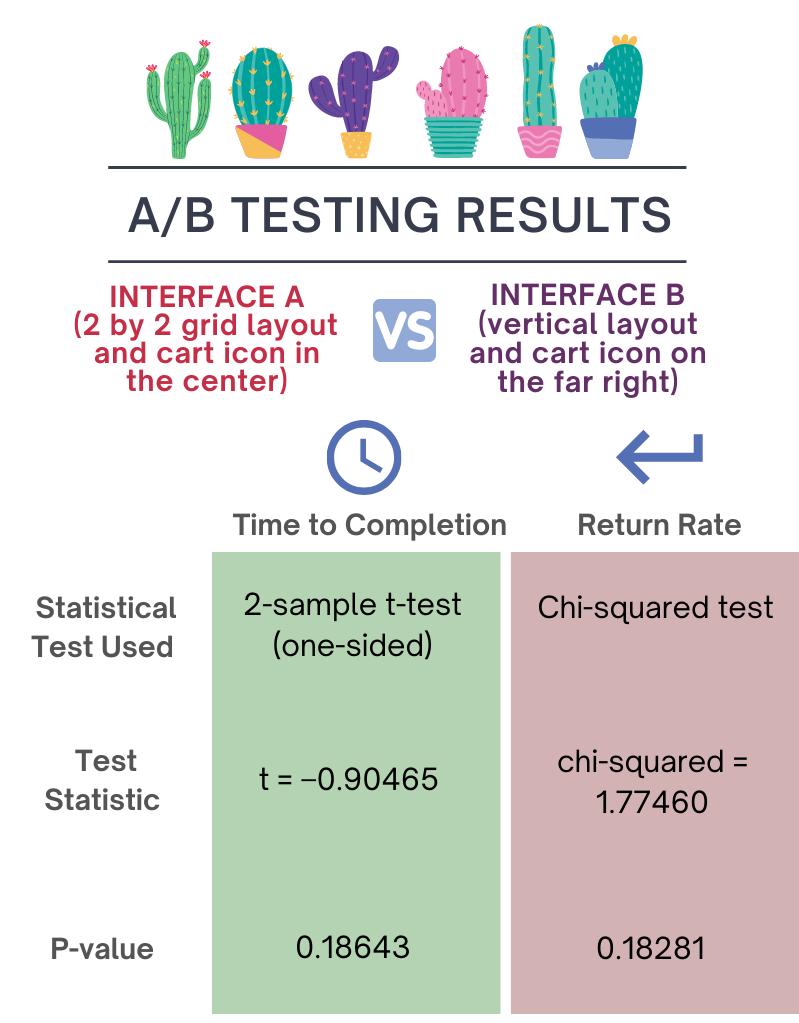
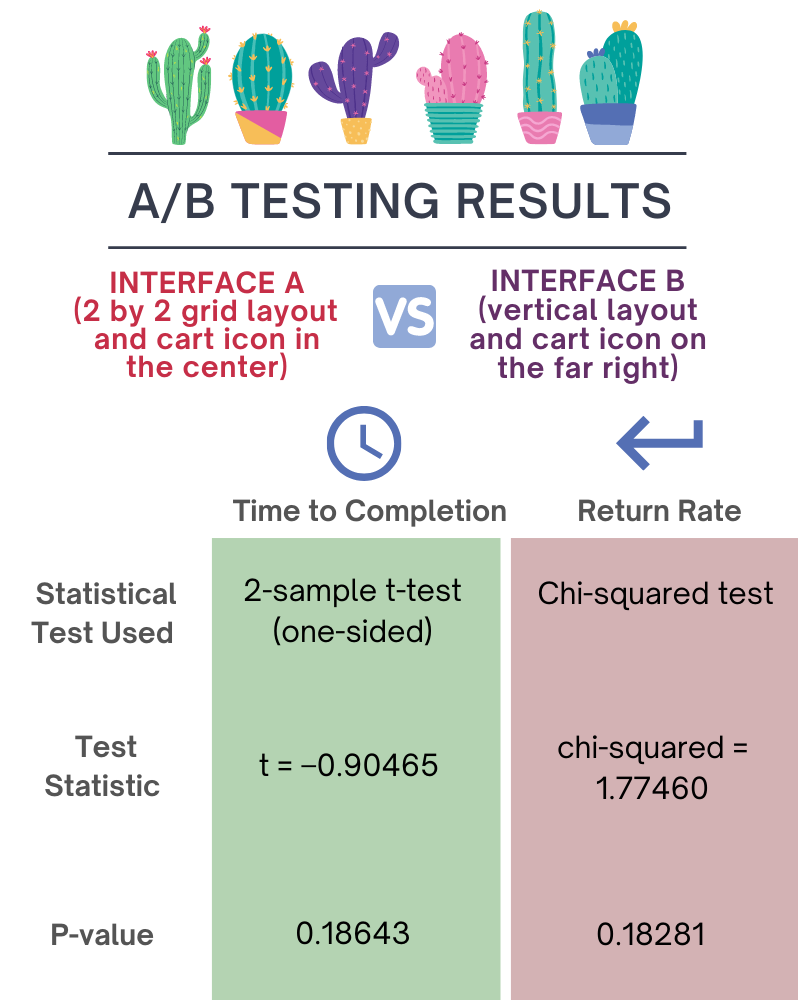
90% done

diff --git a/home.html b/home.html
@@ -29,14 +29,14 @@
 
 
       <!-- A grey horizontal navbar that becomes vertical on small screens -->
-      <nav class="navbar navbar-expand-sm bg-light navbar-light sticky-top">
+      <nav class="navbar navbar-expand-sm bg-light navbar-light">
       <!-- Links -->
         <ul class="navbar-nav nav-fill w-100 justify-content-center">
-          <li class="nav-item"><a class="nav-link" href="#task"><strong>Task Setup</strong></a></li>
-          <li class="nav-item"><a class="nav-link" href="#hypothesis"><strong>Hypothesis</strong></a></li>
-          <li class="nav-item"><a class="nav-link" href="#data"><strong>Data Collection & Processing</strong></a></li>
-          <li class="nav-item"><a class="nav-link" href="#conclusion"><strong>Conclusion</strong></a></li>
-          <li class="nav-item"><a class="nav-link" href="#takeaways"><strong>Takeaways</strong></a></li>
+          <li class="nav-item h-100"><a class="nav-link" href="#task"><strong>Task Setup</strong></a></li>
+          <li class="nav-item h-100"><a class="nav-link" href="#hypothesis"><strong>Hypothesis</strong></a></li>
+          <li class="nav-item h-100"><a class="nav-link" href="#data"><strong>Data Collection & Processing</strong></a></li>
+          <li class="nav-item h-100"><a class="nav-link" href="#conclusion"><strong>Conclusion</strong></a></li>
+          <li class="nav-item h-100"><a class="nav-link" href="#takeaways"><strong>Takeaways</strong></a></li>
         </ul>
       </nav>
     
@@ -123,18 +123,8 @@
         <p>I went over the logs user by user, interpreted what each user did on the website, and took out the ones where the user only loaded the page but did nothing. I then calculated 
           the time to completion for each user session and counted number of users who returned for each interface. In total, 41 valid observations were collected from 40 unique users (one user
           interacted with both interfaces). There are <strong>19 and 22 data points for interface A and B, respectively</strong>.</p>
-          <div class="container">
-            <div class="row align-items-center">
-              <div class="col-md-6 my-auto">
-                
-
-                
-              </div>
-              <div class="col-md-6 my-auto">
-                
-              </div>
-            </div>
-          </div>
+        <h4 style="margin-bottom: 0.5vw;"><Strong>Distributions of the data collected:</Strong></h4>
+        <img src="images/data.jpg" alt="data distributions" style="width: 100%; height: auto">
       </div>
 
       
@@ -144,10 +134,10 @@
 
           <div class="results-container" style="margin-bottom: 20px;">
             <div class="results-column">
-              <img class="ab-testing" style="width: 80%; height: auto" src="images/ab_testing.png" alt="A/B testing results">
+              <img class="ab-testing" style="width: 90%; height: auto" src="images/ab_testing.png" alt="A/B testing results">
             </div>
   
-            <div class="results-column">
+            <div class="results-column my-auto">
               <h4><strong><u>Time to Completion:</strong></u></h4>
               <ul style="margin-left: 1.5vw">
                 <li>We <strong>fail to reject the null hypothesis</strong> at the 10% significance level (and thus fail to reject at 5% and 1% levels as well) since <strong>0.18643 > 0.10</strong>.</li> 
@@ -160,7 +150,7 @@
                 <li>There is no sufficient evidence to conclude the alternative.</li> 
                 <li>Therefore, interface A and B are <strong><u>not</u></strong> statistically significantly different in terms of return rate.</li></ul>
               <br>
-              <p><strong>In conclusion, neither test shows any significant difference between A and B.</strong> The tests conducted are inconclusive and I would have to do more testing 
+              <p><strong>In conclusion, neither test shows any statistically significant difference between A and B.</strong>The tests conducted are inconclusive and I would need to do more testing 
               to decide which interface to deploy.</p>
               </div>
           </div>
@@ -168,8 +158,43 @@
 
       <div class="section" id="takeaways">
         <h3><strong>V. Takeaways</strong></h3>
+        <p>Reflecting on the entire process, I think the following limitations might have affected the test results:</p>
+        <ul style="margin-left: 1.5vw">
+          <li>While the layout of items could potentially affect time to completion, it might not have a significant impact in this case due to the small number of items required for the users to go through (i.e., 
+            there are only four cacti on the website).
+          </li>
+          <li></li>
+        </ul>
+        <p>Though this particular test gives inconclusive results, it would be interesting in the future to increase the number of cacti listed on the website and perform the test again with a larger number of users.</p>
       </div>
 
+      <footer>
+        *Reference: <a href="https://maxcdn.bootstrapcdn.com/bootstrap/4.5.2/css/bootstrap.min.css">Bootstrap v4.5.2</a>, <a href="https://use.fontawesome.com/releases/v5.6.3/css/all.css">Font Awesome</a>, and scripts 
+        from <a href="https://ajax.googleapis.com/ajax/libs/jquery/3.5.1/jquery.min.js">JS Foundation</a> and <a href="https://cdnjs.cloudflare.com/ajax/libs/popper.js/1.16.0/umd/popper.min.js"> Federico Zivolo</a> are incorporated.
+        </footer>
+
+      <button onclick="topFunction()" id="myBtn" title="Go to top"><i class="fa fa-chevron-up" aria-hidden="true"></i></button>
+      <script>
+        //Get the button
+        var mybutton = document.getElementById("myBtn");
+        
+        // When the user scrolls down 20px from the top of the document, show the button
+        window.onscroll = function() {scrollFunction()};
+        
+        function scrollFunction() {
+          if (document.body.scrollTop > 20 || document.documentElement.scrollTop > 20) {
+            mybutton.style.display = "block";
+          } else {
+            mybutton.style.display = "none";
+          }
+        }
+        
+        // When the user clicks on the button, scroll to the top of the document
+        function topFunction() {
+          document.body.scrollTop = 0;
+          document.documentElement.scrollTop = 0;
+        }
+        </script>
     </main>
   </body>
 </html>

diff --git a/index.css b/index.css
@@ -11,7 +11,6 @@
     font-size: 1em;
 }
 
-
 main {
     font-family: "Book Antiqua", Arial, Helvetica, sans-serif;
     margin: 0 auto;
@@ -38,7 +37,7 @@ h3 {
 h4 {
     font-size: 1.3vw !important;
     padding-bottom: 0.5vw;
-    color: #60a25c;
+    color: #5c82a2;
 }
 
 
@@ -88,4 +87,31 @@ table {
 
 .results-column {
     flex: 50%;
+}
+
+#myBtn {
+    display: none;
+    position: fixed;
+    bottom: 20px;
+    right: 4%;
+    z-index: 99;
+    font-size: 2vw;
+    border: none;
+    outline: none;
+    background-color: darkgrey;
+    color: white;
+    cursor: pointer;
+    padding: 15px;
+    border-radius: 4px;
+  }
+  
+  #myBtn:hover {
+    background-color: #555;
+  }
+
+  footer{
+    text-align: right;
+    margin-top: 3vw;
+    padding-bottom: 1vw;
+    color: darkgrey
 }
